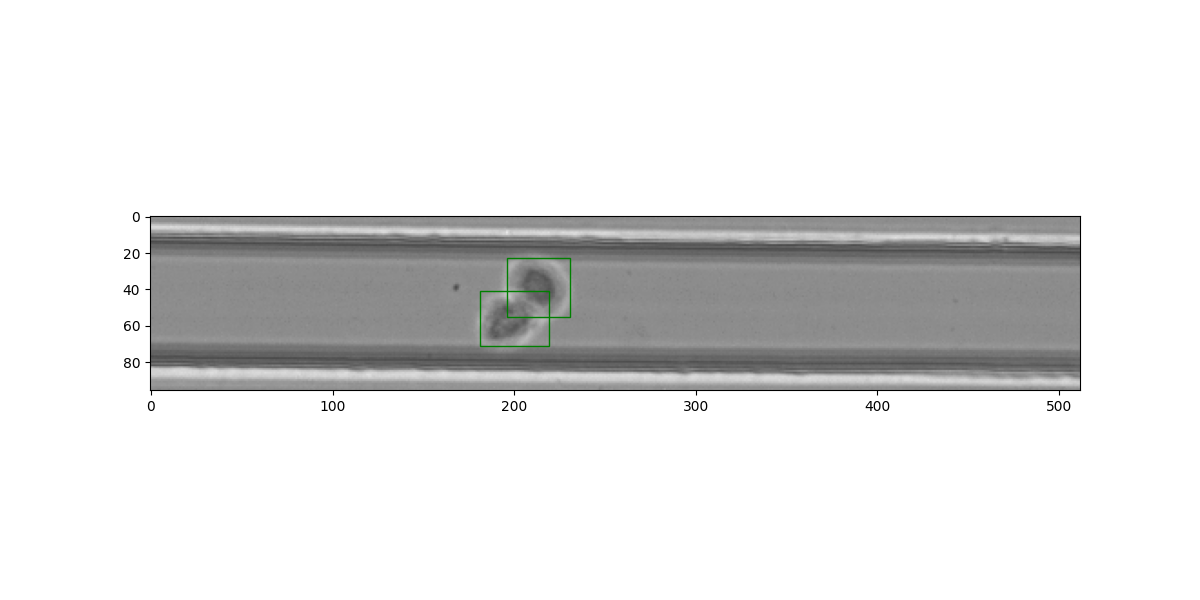
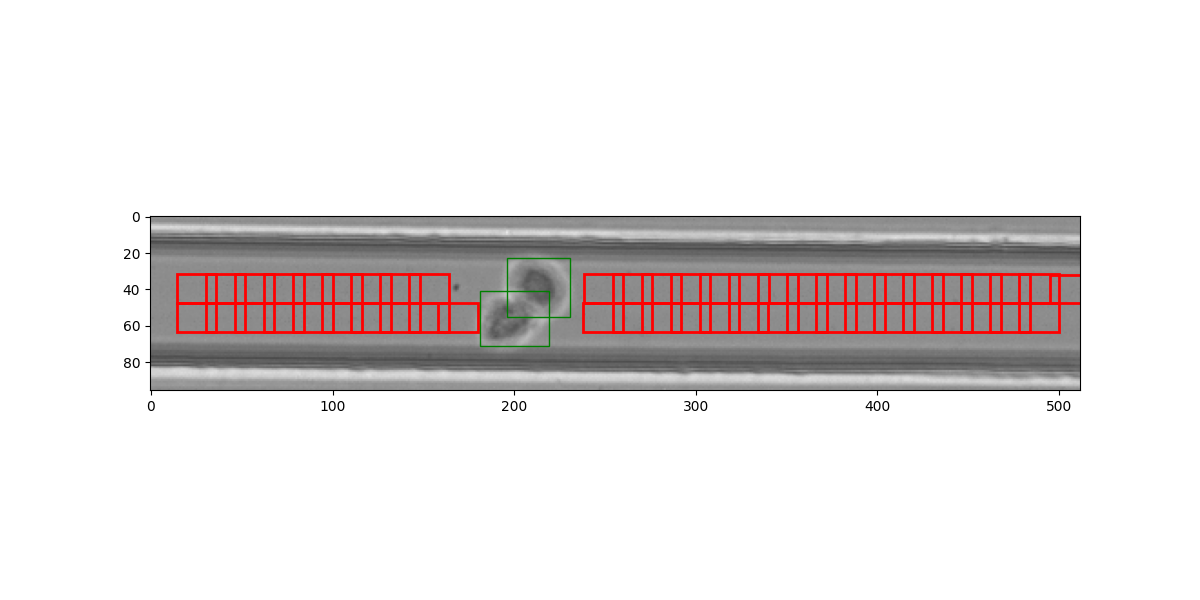
Renew training process.

Changed region(s): [[0.4625, 0.45, 0.8942, 0.57], [0.1233, 0.45, 0.4008, 0.57]]

diff --git a/src/cuhk_project/detection/dataset.py b/src/cuhk_project/detection/dataset.py
@@ -9,7 +9,46 @@ from cuhk_project.utils.logger import logger
 
 class YOLOMFDataset(Dataset):
     """YOLO格式目标检测数据集加载器（优化版）"""
-    
+
+    @staticmethod
+    def collate_fn(batch):
+        """处理不同数量boxes的自定义collate函数"""
+        images = []
+        targets = []
+        
+        # 找出batch中最多的boxes数量
+        max_boxes = max(len(item[1]['boxes']) for item in batch) if batch else 0
+        
+        for image, target in batch:
+            images.append(image)
+            
+            # 对boxes进行padding
+            num_boxes = len(target['boxes'])
+            padded_boxes = torch.zeros((max_boxes, 4), dtype=torch.float32)
+            if num_boxes > 0:
+                padded_boxes[:num_boxes] = target['boxes']
+            
+            # 对labels进行padding
+            padded_labels = torch.zeros(max_boxes, dtype=torch.int64)
+            if num_boxes > 0:
+                padded_labels[:num_boxes] = target['labels']
+            
+            # 创建新的target字典
+            padded_target = {
+                'boxes': padded_boxes,
+                'labels': padded_labels,
+                'image_id': target['image_id'],
+                'orig_size': target['orig_size'],
+                'resized_size': target['resized_size'],
+                'num_boxes': torch.tensor(num_boxes),  # 记录实际boxes数量
+                'grid_size': target['grid_size']
+            }
+            targets.append(padded_target)
+        
+        # 堆叠图像
+        images = torch.stack(images)
+        return images, targets
+
     def __init__(self, 
                  base_dir: str = "data/yolo_mf_dataset",
                  split: str = 'train', 
@@ -78,10 +117,14 @@ class YOLOMFDataset(Dataset):
                         continue
                         
                     parts = line.split()
-                    if len(parts) != 5:
-                        logger.warning(
-                            f"Invalid annotation in {annotation_path.name} line {line_num}: {line}"
-                        )
+                    if len(parts) == 5:
+                        class_id = int(parts[0])
+                        cx, cy, w, h = map(float, parts[1:5])
+                    elif len(parts) == 4:
+                        class_id = 0  # Default class if not specified
+                        cx, cy, w, h = map(float, parts[0:4])
+                    else:
+                        logger.warning(f"Invalid annotation in {annotation_path.name} line {line_num}: {line}")
                         continue
                     
                     try:
@@ -138,8 +181,8 @@ class YOLOMFDataset(Dataset):
             image = Image.open(sample['image_path']).convert('RGB')
             orig_width, orig_height = image.size
             
-            # 调整图像大小并归一化 (使用(height, width)顺序)
-            image = image.resize((self.target_width, self.target_height))  # PIL需要(width, height)
+            # 调整图像大小并归一化
+            image = image.resize((self.target_width, self.target_height))
             image = np.array(image) / 255.0
             image = image.transpose(2, 0, 1)  # HWC to CHW
             image = torch.tensor(image, dtype=torch.float32)
@@ -151,37 +194,70 @@ class YOLOMFDataset(Dataset):
             boxes = []
             labels = []
             for ann in annotations:
-                # 确保坐标在[0.01, 0.99]范围内，避免训练时出现极端值
-                cx = max(0.01, min(0.99, ann['cx']))
-                cy = max(0.01, min(0.99, ann['cy']))
-                w = max(0.01, min(0.99, ann['width']))
-                h = max(0.01, min(0.99, ann['height']))
+                try:
+                    # 验证并规范化坐标值
+                    cx = max(0.01, min(0.99, float(ann['cx'])))
+                    cy = max(0.01, min(0.99, float(ann['cy'])))
+                    w = max(0.01, min(0.99, float(ann['width'])))
+                    h = max(0.01, min(0.99, float(ann['height'])))
+                    
+                    boxes.append([cx, cy, w, h])
+                    labels.append(int(ann['class_id']))
+                except Exception as e:
+                    logger.error(f"Invalid annotation in {sample['image_path']}: {ann}, error: {str(e)}")
+                    continue
+            
+            # 严格验证boxes
+            if not boxes:
+                boxes_tensor = torch.zeros((0, 4), dtype=torch.float32)
+            else:
+                # 确保所有boxes都是4个值
+                invalid_boxes = [box for box in boxes if len(box) != 4]
+                if invalid_boxes:
+                    raise ValueError(f"Invalid boxes in {sample['image_path']}: {invalid_boxes}")
                 
-                boxes.append([cx, cy, w, h])
-                labels.append(ann['class_id'])
+                boxes_tensor = torch.tensor(boxes, dtype=torch.float32)
+                if boxes_tensor.dim() != 2 or boxes_tensor.size(1) != 4:
+                    raise ValueError(f"Boxes tensor has invalid shape: {boxes_tensor.shape}")
             
             # 创建目标字典
             target = {
-                'boxes': torch.tensor(boxes, dtype=torch.float32),
+                'boxes': boxes_tensor.reshape(-1, 4),  # 强制Nx4形状
                 'labels': torch.tensor(labels, dtype=torch.int64),
                 'image_id': torch.tensor([idx]),
-                'orig_size': torch.tensor([orig_height, orig_width]),  # (height, width)
-                'resized_size': torch.tensor([self.target_height, self.target_width]),  # (height, width)
+                'orig_size': torch.tensor([orig_height, orig_width]),
+                'resized_size': torch.tensor([self.target_height, self.target_width]),
                 'num_boxes': torch.tensor(len(annotations)),
-                'grid_size': torch.tensor([self.grid_height, self.grid_width])  # (height, width)
+                'grid_size': torch.tensor([self.grid_height, self.grid_width])
             }
             
             # 应用数据增强
             if self.transform:
-                image, target = self.transform(image, target)
+                try:
+                    image, target = self.transform(image, target)
+                    # transform后验证
+                    if target['boxes'].dim() != 2 or target['boxes'].size(1) != 4:
+                        raise ValueError(f"Transform corrupted boxes shape: {target['boxes'].shape}")
+                except Exception as e:
+                    logger.error(f"Transform failed for {sample['image_path']}: {str(e)}")
+                    raise
             
-            # 验证输出
-            self._validate_output(image, target)
             return image, target
             
         except Exception as e:
             logger.error(f"Error processing sample {idx} ({sample['image_path']}): {str(e)}")
-            raise
+            # 返回空样本避免训练中断
+            empty_image = torch.zeros((3, self.target_height, self.target_width), dtype=torch.float32)
+            empty_target = {
+                'boxes': torch.zeros((0, 4), dtype=torch.float32),
+                'labels': torch.zeros(0, dtype=torch.int64),
+                'image_id': torch.tensor([idx]),
+                'orig_size': torch.tensor([self.target_height, self.target_width]),
+                'resized_size': torch.tensor([self.target_height, self.target_width]),
+                'num_boxes': torch.tensor(0),
+                'grid_size': torch.tensor([self.grid_height, self.grid_width])
+            }
+            return empty_image, empty_target
 
     def _validate_output(self, image: torch.Tensor, target: Dict):
         """验证输出数据有效性"""

diff --git a/src/cuhk_project/detection/trainer.py b/src/cuhk_project/detection/trainer.py
@@ -1,4 +1,5 @@
 import os
+import math
 import torch
 import torch.optim as optim
 import numpy as np
@@ -28,6 +29,8 @@ class DetectionTrainer:
         
     def __init__(self, 
                  model: SimpleDetectionModel, 
+                 train_loader,
+                 val_loader,
                  train_dataset: YOLOMFDataset,
                  val_dataset: YOLOMFDataset,
                  grid_size: tuple = (16, 16),  # 新增网格尺寸参数
@@ -51,6 +54,8 @@ class DetectionTrainer:
             device: 训练设备
         """
         self.model = model.to(device)
+        self.train_loader = train_loader
+        self.val_loader = val_loader
         self.train_dataset = train_dataset
         self.val_dataset = val_dataset
         self.grid_size = grid_size
@@ -72,12 +77,14 @@ class DetectionTrainer:
         self.train_loader = DataLoader(
             train_dataset, 
             batch_size=batch_size, 
-            shuffle=True
+            shuffle=True,
+            collate_fn=YOLOMFDataset.collate_fn
         )
         self.val_loader = DataLoader(
             val_dataset, 
             batch_size=batch_size, 
-            shuffle=False
+            shuffle=False,
+            collate_fn=YOLOMFDataset.collate_fn
         )
         
         # 优化器
@@ -107,9 +114,9 @@ class DetectionTrainer:
         if not all_boxes:
             # 默认锚框尺寸
             return torch.tensor([
-                [0.05, 0.2],  # 小物體
-                [0.15, 0.5],  # 中物體
-                [0.25, 0.8] 
+                [0.0749, 0.3119],  # 小物體
+                [0.0796, 0.3856],  # 中等物體
+                [0.1139, 0.6215]   # 大物體 
             ])
         
         all_boxes = torch.tensor(all_boxes)
@@ -127,52 +134,51 @@ class DetectionTrainer:
         """构建YOLO格式的网格目标"""
         B = len(targets)
         H, W = self.grid_size
-        # 目标张量: [batch, anchors, 5, grid_h, grid_w]
-        # 5: [offset_x, offset_y, log(w_ratio), log(h_ratio), obj_confidence]
+        
+        # 初始化目标张量
         targets_tensor = torch.zeros(B, self.num_anchors, 5, H, W)
         
         for b, target in enumerate(targets):
-            boxes = target['boxes']
+            num_boxes = target['num_boxes'].item()
+            boxes = target['boxes'][:num_boxes]  # 只取真实boxes
+            
+            # 处理每个box
             for box in boxes:
-                cx, cy, w, h = box
-                
-                # 计算网格位置
-                grid_x = int(cx * W)
-                grid_y = int(cy * H)
-                
-                # 确保在网格范围内
-                grid_x = max(0, min(W-1, grid_x))
-                grid_y = max(0, min(H-1, grid_y))
-                
-                # 计算偏移量
-                offset_x = cx * W - grid_x
-                offset_y = cy * H - grid_y
-                
-                # 计算最匹配的锚框
-                ious = []
-                for anchor in self.anchor_boxes:
-                    # 计算IoU
-                    box_area = w * h
-                    anchor_area = anchor[0] * anchor[1]
-                    inter_w = min(w, anchor[0])
-                    inter_h = min(h, anchor[1])
-                    inter_area = inter_w * inter_h
-                    iou = inter_area / (box_area + anchor_area - inter_area)
-                    ious.append(iou)
-                
-                best_anchor = torch.argmax(torch.tensor(ious))
-                
-                # 计算宽高比例的对数
-                w_ratio = w / self.anchor_boxes[best_anchor][0]
-                h_ratio = h / self.anchor_boxes[best_anchor][1]
-                
-                # 设置目标值
-                targets_tensor[b, best_anchor, 0, grid_y, grid_x] = offset_x
-                targets_tensor[b, best_anchor, 1, grid_y, grid_x] = offset_y
-                targets_tensor[b, best_anchor, 2, grid_y, grid_x] = torch.log(w_ratio)
-                targets_tensor[b, best_anchor, 3, grid_y, grid_x] = torch.log(h_ratio)
-                targets_tensor[b, best_anchor, 4, grid_y, grid_x] = 1.0  # obj confidence
-        
+                try:
+                    cx, cy, w, h = box.tolist()
+                    
+                    # 计算网格位置
+                    grid_x = min(W-1, max(0, int(cx * W)))
+                    grid_y = min(H-1, max(0, int(cy * H)))
+                    
+                    # 计算偏移量
+                    offset_x = cx * W - grid_x
+                    offset_y = cy * H - grid_y
+                    
+                    # 计算最匹配的锚框
+                    ious = []
+                    for anchor in self.anchor_boxes:
+                        box_area = w * h
+                        anchor_area = anchor[0] * anchor[1]
+                        inter_w = min(w, anchor[0])
+                        inter_h = min(h, anchor[1])
+                        inter_area = inter_w * inter_h
+                        iou = inter_area / (box_area + anchor_area - inter_area)
+                        ious.append(iou)
+                    
+                    best_anchor = torch.argmax(torch.tensor(ious))
+                    
+                    # 设置目标值
+                    targets_tensor[b, best_anchor, 0, grid_y, grid_x] = offset_x
+                    targets_tensor[b, best_anchor, 1, grid_y, grid_x] = offset_y
+                    targets_tensor[b, best_anchor, 2, grid_y, grid_x] = math.log(w / self.anchor_boxes[best_anchor][0])
+                    targets_tensor[b, best_anchor, 3, grid_y, grid_x] = math.log(h / self.anchor_boxes[best_anchor][1])
+                    targets_tensor[b, best_anchor, 4, grid_y, grid_x] = 1.0  # obj confidence
+                    
+                except Exception as e:
+                    logger.error(f"Error processing box {box.tolist()}: {str(e)}")
+                    continue
+                    
         return targets_tensor
 
     def train_epoch(self, epoch: int) -> dict:
@@ -184,12 +190,10 @@ class DetectionTrainer:
         
         progress_bar = tqdm(self.train_loader, desc=f"Epoch {epoch+1}/{self.num_epochs}")
         
-        for batch_idx, batch in enumerate(progress_bar):
-            # 安全解包批数据
-            images, targets = batch
+        for batch_idx, (images, targets) in enumerate(progress_bar):
             images = images.to(self.device)
             
-            # 构建YOLO目标
+            # 构建YOLO目标时自动处理padding
             yolo_targets = self._build_targets(targets).to(self.device)
             
             # 前向传播

diff --git a/src/cuhk_project/scripts/train_detection.py b/src/cuhk_project/scripts/train_detection.py
@@ -60,7 +60,23 @@ def main():
         
         logger.info(f"Train dataset size: {len(train_dataset)}")
         logger.info(f"Validation dataset size: {len(val_dataset)}")
+
+        # 初始化DataLoader
+        train_loader = torch.utils.data.DataLoader(
+            train_dataset,
+            batch_size=args.batch_size,
+            shuffle=True,
+            collate_fn=YOLOMFDataset.collate_fn,
+            num_workers=0
+        )
         
+        val_loader = torch.utils.data.DataLoader(
+            val_dataset,
+            batch_size=args.batch_size,
+            shuffle=False,
+            collate_fn=YOLOMFDataset.collate_fn,
+            num_workers=0
+        )
     except Exception as e:
         logger.error(f"Failed to create datasets: {str(e)}")
         return
@@ -84,8 +100,10 @@ def main():
     try:
         trainer = DetectionTrainer(
             model=model,
-            train_dataset=train_dataset,  # 传递训练数据集
-            val_dataset=val_dataset,      # 传递验证数据集
+            train_dataset=train_dataset,
+            val_dataset=val_dataset,
+            train_loader=train_loader,  # 传入train_loader
+            val_loader=val_loader,      # 传递验证数据集
             grid_size=grid_size,
             num_anchors=args.num_anchors,
             batch_size=args.batch_size,    # 传递批次大小

diff --git a/src/cuhk_project/scripts/validate_model.py b/src/cuhk_project/scripts/validate_model.py
@@ -57,7 +57,7 @@ def main():
     
     # 初始化
     device = torch.device('cpu')  # 使用CPU保证兼容性
-    dataset = YOLOMFDataset(base_dir=data_dir, split='test', target_size=(512, 96))
+    dataset = YOLOMFDataset(base_dir=data_dir, split='test')
     model = load_model(model_path, out_channels).to(device)
     
     print(f"Loaded model from {model_path}")
